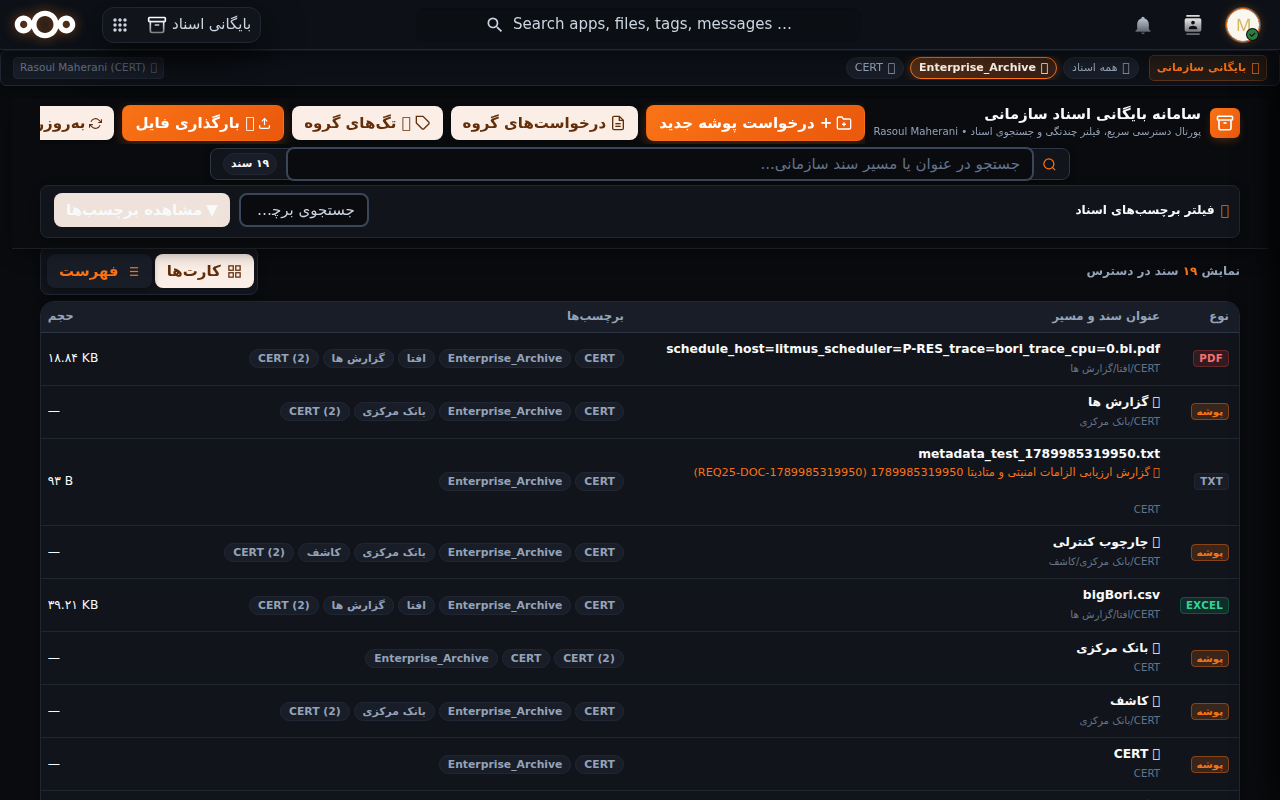
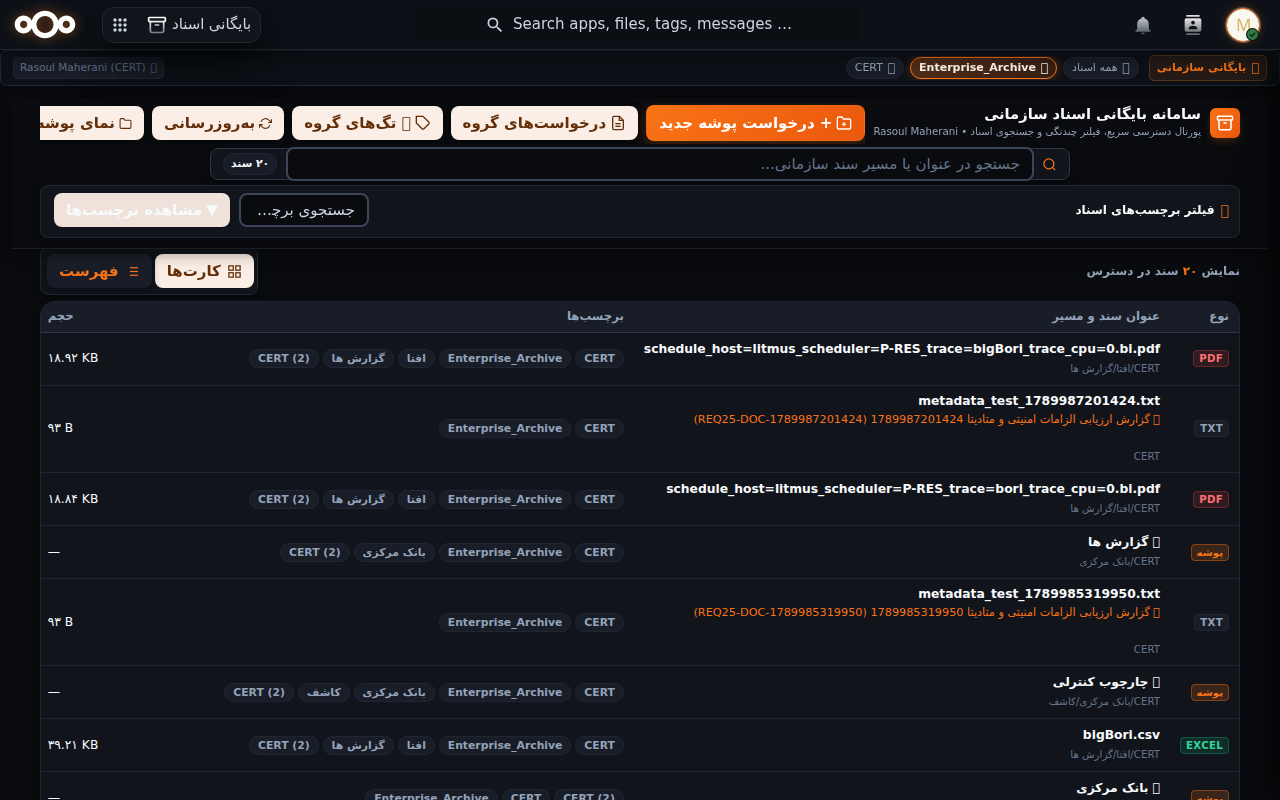
feat(portal): move upload button from top header to inside folders

diff --git a/apps/archive_autotag/js/archive_portal.js b/apps/archive_autotag/js/archive_portal.js
@@ -403,10 +403,6 @@
             '    </div>',
             '    <div class="ea-header-actions">',
             '      <div id="ea-workflow-actions" class="ea-workflow-actions"></div>',
-            '      <button id="ea-upload-btn" class="ea-btn ea-btn-primary" title="بارگذاری سند سازمانی جدید در پوشه گروه">',
-            '        <svg width="13" height="13" fill="none" stroke="currentColor" stroke-width="2.2" viewBox="0 0 24 24"><path d="M21 15v4a2 2 0 0 1-2 2H5a2 2 0 0 1-2-2v-4"/><polyline points="17 8 12 3 7 8"/><line x1="12" y1="3" x2="12" y2="15"/></svg>',
-            '        <span>📤 بارگذاری فایل</span>',
-            '      </button>',
             '      <button id="ea-refresh-btn" class="ea-btn" title="تازه سازی اطلاعات">',
             '        <svg width="13" height="13" fill="none" stroke="currentColor" stroke-width="2" viewBox="0 0 24 24"><polyline points="23 4 23 10 17 10"/><polyline points="1 20 1 14 7 14"/><path d="M3.51 9a9 9 0 0 1 14.85-3.36L23 10M1 14l4.64 4.36A9 9 0 0 0 20.49 15"/></svg>',
             '        <span>بهروزرسانی</span>',
@@ -754,6 +750,13 @@
             breadcrumbsHtml.push('  </div>');
             breadcrumbsHtml.push('  <div class="ea-folder-nav-actions">');
 
+            breadcrumbsHtml.push(
+                '    <button type="button" id="ea-folder-upload-btn-bar" class="ea-btn ea-btn-sm ea-btn-primary" title="بارگذاری سند سازمانی جدید در این پوشه">',
+                '      <svg width="13" height="13" fill="none" stroke="currentColor" stroke-width="2.2" viewBox="0 0 24 24"><path d="M21 15v4a2 2 0 0 1-2 2H5a2 2 0 0 1-2-2v-4"/><polyline points="17 8 12 3 7 8"/><line x1="12" y1="3" x2="12" y2="15"/></svg>',
+                '      <span>بارگذاری فایل</span>',
+                '    </button>'
+            );
+
             if (parts.length > 0) {
                 var parentDir = '/' + parts.slice(0, -1).join('/');
                 breadcrumbsHtml.push(
@@ -774,6 +777,13 @@
             );
 
             ribbon.innerHTML = breadcrumbsHtml.join('');
+
+            var folderUploadBtnBar = ribbon.querySelector('#ea-folder-upload-btn-bar');
+            if (folderUploadBtnBar) {
+                folderUploadBtnBar.addEventListener('click', function () {
+                    openUploadModal(null, state.currentFolderDir);
+                });
+            }
 
             ribbon.querySelectorAll('[data-folder-dir]').forEach(function (btn) {
                 btn.addEventListener('click', function () {
@@ -908,12 +918,22 @@
                 '  <div class="ea-empty-icon">📁</div>',
                 '  <div class="ea-empty-title">این پوشه خالی است یا سندی در این مسیر یافت نشد</div>',
                 '  <div class="ea-empty-desc">میتوانید به سطوح بالاتر برگردید یا اسناد دیگر را جستجو نمایید.</div>',
-                '  <div style="display: flex; gap: 8px; justify-content: center; margin-top: 14px;">',
+                '  <div style="display: flex; gap: 8px; justify-content: center; margin-top: 14px; flex-wrap: wrap;">',
+                '    <button class="ea-btn ea-btn-primary" id="ea-empty-upload-btn" title="بارگذاری فایل در این پوشه">',
+                '      <svg width="14" height="14" fill="none" stroke="currentColor" stroke-width="2.2" viewBox="0 0 24 24"><path d="M21 15v4a2 2 0 0 1-2 2H5a2 2 0 0 1-2-2v-4"/><polyline points="17 8 12 3 7 8"/><line x1="12" y1="3" x2="12" y2="15"/></svg>',
+                '      <span>بارگذاری فایل</span>',
+                '    </button>',
                 (state.currentFolderDir && state.currentFolderDir !== '/' ? '    <button class="ea-btn ea-btn-primary" id="ea-empty-up-btn">⬆ رفتن به پوشه بالا</button>' : ''),
                 '    <button class="ea-btn ea-btn-secondary" id="ea-empty-exit-btn">بازگشت به همه اسناد</button>',
                 '  </div>',
                 '</div>'
             ].join('');
+            var folderUploadBtn = document.getElementById('ea-empty-upload-btn');
+            if (folderUploadBtn) {
+                folderUploadBtn.addEventListener('click', function () {
+                    openUploadModal(null, state.currentFolderDir);
+                });
+            }
             var upBtn = document.getElementById('ea-empty-up-btn');
             if (upBtn) {
                 upBtn.addEventListener('click', function () {
@@ -1436,7 +1456,7 @@
     }
 
     // Modal: Native File Upload with Mandatory Metadata (Requirement 25)
-    function openUploadModal(initialFile) {
+    function openUploadModal(initialFile, targetFolderDir) {
         closeModal();
 
         var overlay = document.createElement('div');
@@ -1620,14 +1640,30 @@
         }
 
         function populateFolderSelect() {
+            var preferred = targetFolderDir || (state.isFolderView ? state.currentFolderDir : '');
+            if (preferred) {
+                var cleanPref = '/' + preferred.replace(/^\/+|\/+$/g, '');
+                if (!folderMap[cleanPref]) {
+                    folderMap[cleanPref] = { path: cleanPref, display: '📁 ' + cleanPref };
+                }
+            }
             var paths = Object.keys(folderMap).sort();
             if (paths.length === 0) {
                 folderSelect.innerHTML = '<option value="/SOC">📁 /SOC</option>';
             } else {
                 folderSelect.innerHTML = paths.map(function(k) {
                     var item = folderMap[k];
-                    return '<option value="' + escapeHtml(item.path) + '">' + escapeHtml(item.display) + '</option>';
+                    var isSelected = preferred && (item.path === preferred || item.path.replace(/^\/+/, '') === preferred.replace(/^\/+/, ''));
+                    return '<option value="' + escapeHtml(item.path) + '"' + (isSelected ? ' selected' : '') + '>' + escapeHtml(item.display) + '</option>';
                 }).join('');
+            }
+            if (preferred) {
+                for (var i = 0; i < folderSelect.options.length; i++) {
+                    if (folderSelect.options[i].value === preferred || folderSelect.options[i].value.replace(/^\/+/, '') === preferred.replace(/^\/+/, '')) {
+                        folderSelect.selectedIndex = i;
+                        break;
+                    }
+                }
             }
             updateProjectedTags();
         }

diff --git a/tests/e2e/test_03_upload_lifecycle.py b/tests/e2e/test_03_upload_lifecycle.py
@@ -51,8 +51,12 @@ class TestUploadLifecycle(unittest.TestCase):
             self.portal.navigate()
             self.portal.wait_until_loaded()
 
+            # Navigate into folder /SOC where upload button resides
+            self.page.evaluate("window._eaNavigateToFolder && window._eaNavigateToFolder('/SOC')")
+            self.page.wait_for_timeout(600)
+
             # Click Upload button
-            upload_btn = self.page.locator(self.portal.UPLOAD_BTN)
+            upload_btn = self.page.locator(self.portal.UPLOAD_BTN).first
             self.assertTrue(upload_btn.is_visible(), "Upload button must be visible")
             upload_btn.click()
 
@@ -82,8 +86,12 @@ class TestUploadLifecycle(unittest.TestCase):
             self.portal.navigate()
             self.portal.wait_until_loaded()
 
+            # Navigate into a folder where upload button resides
+            self.page.evaluate("window._eaNavigateToFolder && window._eaNavigateToFolder('/SOC')")
+            self.page.wait_for_timeout(600)
+
             # Open upload modal
-            self.page.click(self.portal.UPLOAD_BTN)
+            self.page.locator(self.portal.UPLOAD_BTN).first.click()
             self.page.wait_for_selector(self.upload_modal.DROPZONE, state="visible")
 
             # Verify dropzone prompt text
@@ -127,8 +135,12 @@ class TestUploadLifecycle(unittest.TestCase):
                 f"Confidential Incident Report. Incident ID: INC-{timestamp}. Automated Tagging Verification."
             )
 
+            # Navigate into a folder where upload button resides
+            self.page.evaluate("window._eaNavigateToFolder && window._eaNavigateToFolder('/SOC')")
+            self.page.wait_for_timeout(600)
+
             # Open upload modal
-            self.page.click(self.portal.UPLOAD_BTN)
+            self.page.locator(self.portal.UPLOAD_BTN).first.click()
             self.page.wait_for_selector(self.upload_modal.DROPZONE, state="visible")
 
             # Stage file

diff --git a/tests/e2e/test_07_group_sharing_and_management.py b/tests/e2e/test_07_group_sharing_and_management.py
@@ -39,7 +39,8 @@ class TestGroupSharingAndManagementE2E(unittest.TestCase):
         page = context.new_page()
 
         with capture_failure(page, "test_01_admin_group_sharing_flow"):
-            page.goto(PORTAL_URL, wait_until="networkidle")
+            page.goto(PORTAL_URL)
+            page.wait_for_selector("#ea-document-container", timeout=15000)
 
             # 1. Switch to table view
             table_btn = page.locator("#ea-view-table-btn")
@@ -56,7 +57,7 @@ class TestGroupSharingAndManagementE2E(unittest.TestCase):
             # 3. Click the first share button to open modal
             share_btns.first.click()
             modal = page.locator("#ea-group-share-modal")
-            modal.wait_for(state="visible", timeout=5000)
+            modal.wait_for(state="visible", timeout=10000)
             self.assertTrue(modal.is_visible(), "Group Share Modal should be visible after clicking share button")
 
             # 4. Verify group select dropdown is populated
@@ -74,7 +75,7 @@ class TestGroupSharingAndManagementE2E(unittest.TestCase):
 
             # Wait for status message or table update
             status_msg = page.locator("#ea-share-status-msg")
-            status_msg.wait_for(state="visible", timeout=5000)
+            status_msg.wait_for(state="visible", timeout=10000)
             self.assertIn("موفقیت", status_msg.inner_text())
 
             # 6. Verify SOC is listed in active shares
@@ -100,7 +101,8 @@ class TestGroupSharingAndManagementE2E(unittest.TestCase):
         page = context.new_page()
 
         with capture_failure(page, "test_02_non_admin_sharing_hidden"):
-            page.goto(PORTAL_URL, wait_until="networkidle")
+            page.goto(PORTAL_URL)
+            page.wait_for_selector("#ea-document-container", timeout=15000)
 
             # 1. Switch to table view
             table_btn = page.locator("#ea-view-table-btn")

diff --git a/tests/e2e/test_10_mandatory_metadata_upload.py b/tests/e2e/test_10_mandatory_metadata_upload.py
@@ -55,8 +55,12 @@ class TestMandatoryMetadataUploadE2E(unittest.TestCase):
             page.wait_for_selector("#ea-document-container", timeout=15000)
             page.wait_for_timeout(1000)
 
-            # 1. Click Upload button
-            upload_btn = page.locator("#ea-upload-btn")
+            # Navigate into folder /SOC where upload button resides
+            page.evaluate("window._eaNavigateToFolder && window._eaNavigateToFolder('/SOC')")
+            page.wait_for_timeout(600)
+
+            # 1. Click Upload button inside folder
+            upload_btn = page.locator("#ea-empty-upload-btn, #ea-folder-upload-btn-bar").first
             expect(upload_btn).to_be_visible()
             upload_btn.click()
 

diff --git a/tests/e2e/pages/portal_page.py b/tests/e2e/pages/portal_page.py
@@ -14,7 +14,7 @@ class PortalPage(BasePage):
     SEARCH_CLEAR = "#ea-search-clear"
     SEARCH_COUNT = "#ea-search-count"
     REFRESH_BTN = "#ea-refresh-btn"
-    UPLOAD_BTN = "#ea-upload-btn"
+    UPLOAD_BTN = "#ea-empty-upload-btn, #ea-folder-upload-btn-bar, #ea-upload-btn"
     FOLDER_REQ_BTN = "#ea-create-folder-req-btn"
     ADMIN_MANAGE_REQS_BTN = "#ea-admin-manage-reqs-btn"
     MANAGE_GROUP_TAGS_BTN = "#ea-manage-group-tags-btn"
